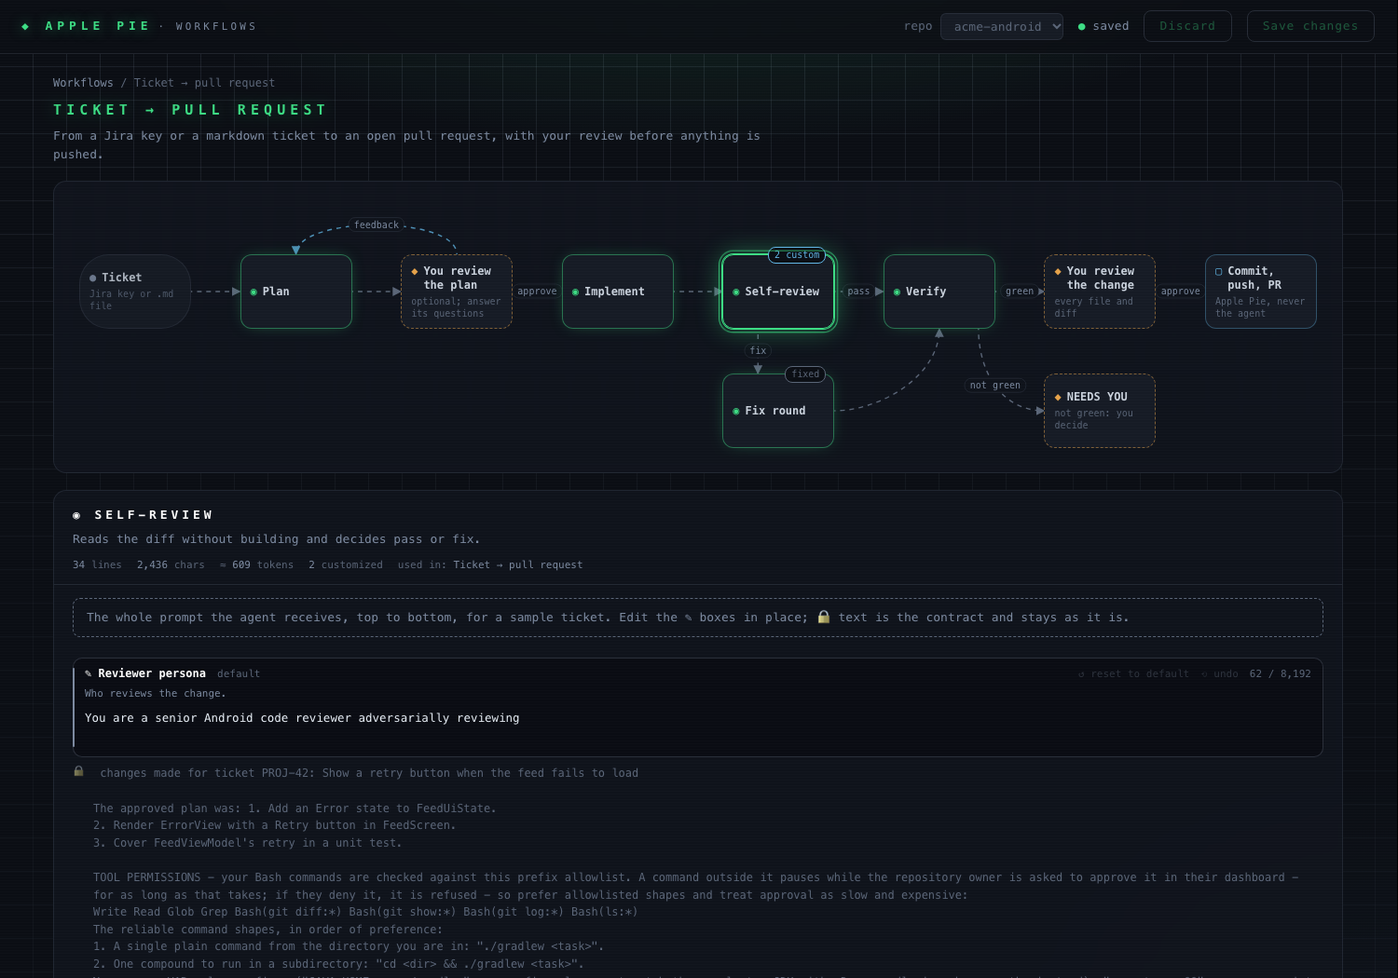
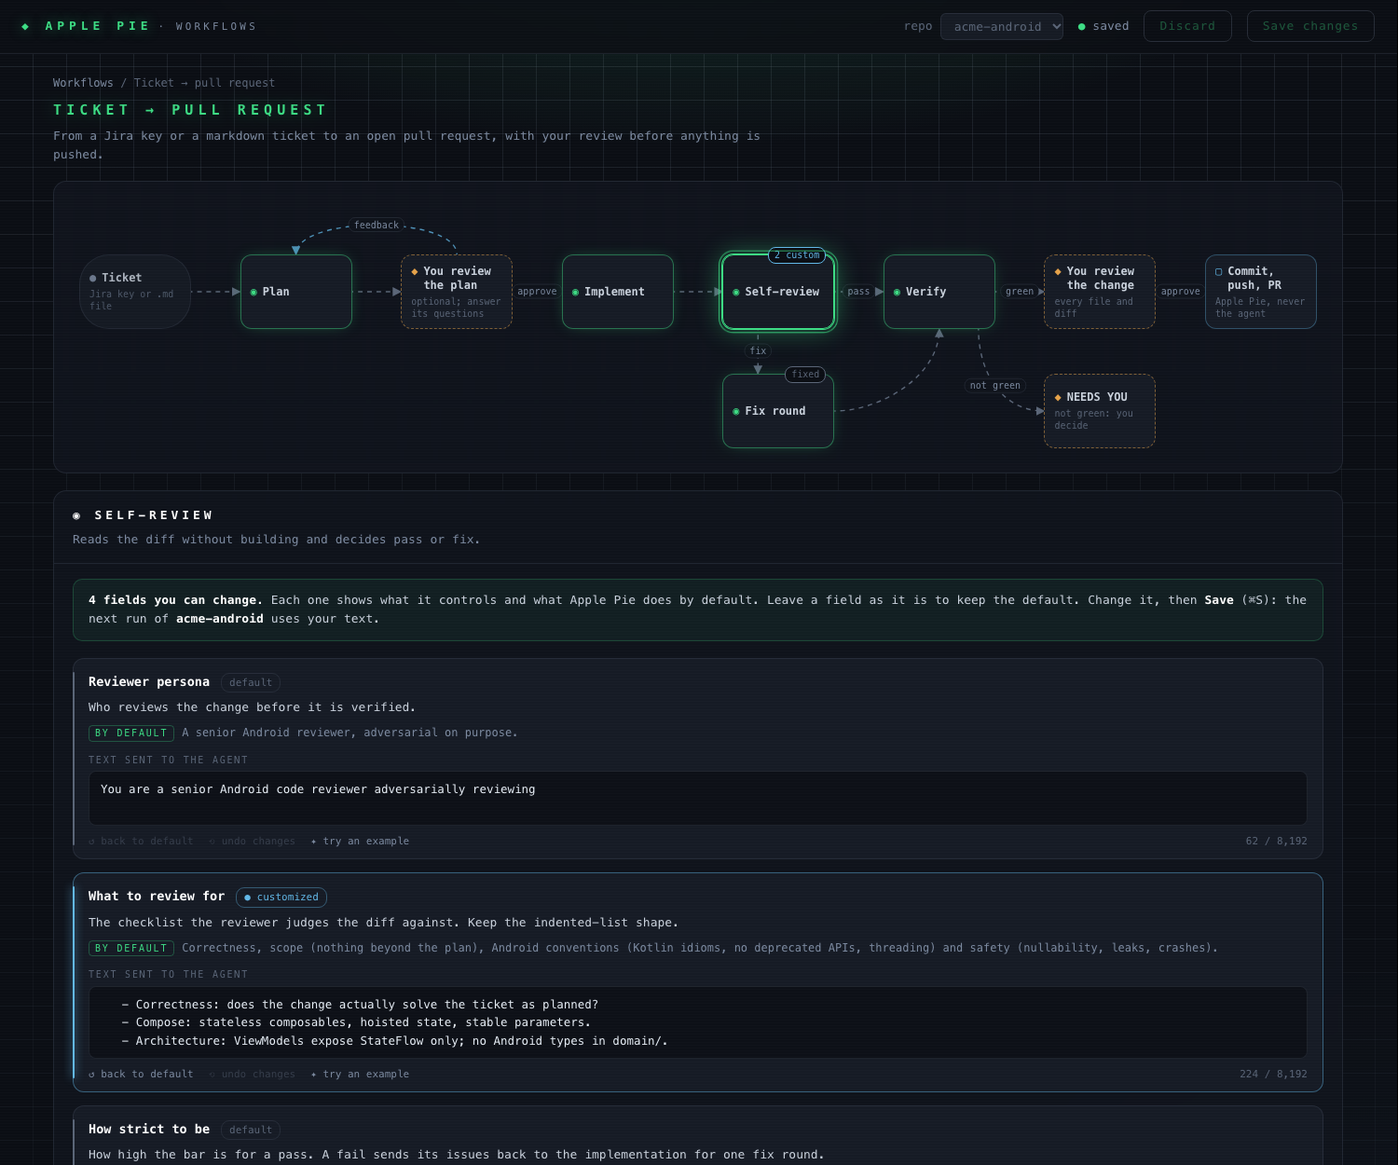
Workflow editor: a step shows only what you can change, explained
Each field now says what it controls, what Apple Pie does by default (in
plain words, not prompt text), and offers an example; the full prompt is
collapsed at the bottom. Guidance lives in agent/slots_guide.go, and a
test requires it for every field.

diff --git a/internal/workflows/web/app.js b/internal/workflows/web/app.js
@@ -10,7 +10,7 @@ try {
 if (location.hash) history.replaceState(null, "", location.pathname + location.search);
 
 const S = {repos: [], repo: "", file: "", slots: [], byId: {}, saved: {}, draft: {}, stages: [], workflows: [],
-  lint: {}, w: q0.get("w"), n: q0.get("n"), pending: false};
+  lint: {}, w: q0.get("w"), n: q0.get("n")};
 // ?stage=<id> (older links): open the first workflow that has that stage.
 const legacyStage = q0.get("stage");
 
@@ -178,7 +178,7 @@ function paintNode(el) {
   tag.textContent = d ? "● unsaved" : c ? `${c} custom` : "fixed";
 }
 
-// ---- a node: its prompt, or what happens there ----------------------------
+// ---- a node: what you can change there ------------------------------------
 
 function renderNode(n) {
   const el = $("#stage");
@@ -188,62 +188,63 @@ function renderNode(n) {
     el.innerHTML = `<div class="shead"><h2>${GLYPH[n.kind]} ${esc(n.title)}</h2></div><div class="info"><b>${what}</b><br>${esc(n.note || "")}</div>`;
     return;
   }
-  const st = stage(n.stage), sl = stageSlots(n.stage);
+  const st = stage(n.stage), sl = stageSlots(n.stage), shared = usedIn(st.id);
   el.innerHTML = `<div class="shead"><h2>◉ ${esc(st.title)}</h2><p class="lede">${esc(st.blurb)}</p>
-    <div class="smeta" id="smeta"></div></div>
-    ${st.fixed ? `<div class="notice">This prompt is fixed: it carries only your feedback and the contract around it, so there is nothing to customize. It is shown so you can see exactly what the agent receives.</div>` :
-      `<div class="notice">The whole prompt the agent receives, top to bottom, for a sample ticket. Edit the ✎ boxes in place; 🔒 text is the contract and stays as it is.${sl.length > 1 ? "" : ""}</div>`}
-    <div class="doc" id="doc"></div>`;
-  renderDoc(st);
-}
-
-function renderDoc(st) {
-  S.sig = sig(st);
-  $("#doc").innerHTML = st.blocks.map(b => {
-    if (!b.slot) return b.text.trim() ? `<div class="lk ${/\.agent\/|\.json/.test(b.text) ? "contract" : ""}"><pre>${esc(b.text.replace(/^\n+|\s+$/g, ""))}</pre></div>` : "";
-    const s = S.byId[b.slot];
-    return `<div class="ed" data-slot="${s.id}"><div class="ebar"><b>✎ ${esc(s.title)}</b><span class="badge"></span><span class="spacer"></span>
-      <button class="link reset">↺ reset to default</button><button class="link undo">⟲ undo</button><span class="count"></span><span class="help">${esc(s.help)}</span></div>
-      <textarea spellcheck="false" placeholder="${s.default ? "" : "Empty - add house rules, tools to prefer, things to avoid…"}">${esc(value(s.id))}</textarea><ul class="lint"></ul></div>`;
-  }).join("");
-  document.querySelectorAll(".ed").forEach(card => {
+    ${shared.length > 1 ? `<p class="shared">Shared by ${esc(shared.join(", "))}: a change here applies to all of them.</p>` : ""}</div>
+    ${st.fixed ? `<div class="howto">Nothing to customize in this step: it only passes on your own words, wrapped in rules Apple Pie needs. The full text is below if you want to see it.</div>` :
+      `<div class="howto"><b>${sl.length} field${sl.length > 1 ? "s" : ""} you can change.</b> Each one shows what it controls and what Apple Pie does by default.
+        Leave a field as it is to keep the default. Change it, then <b>Save</b> (⌘S): the next run of <b>${esc(S.repo.split("/").pop())}</b> uses your text.</div>
+      <div class="fields">${sl.map(field).join("")}</div>`}
+    <details class="full" ${st.fixed ? "open" : ""}><summary>Show the full prompt the agent receives <span id="flines"></span></summary>
+      <p class="fullnote">Your fields are highlighted; everything else is fixed - it is how Apple Pie tracks this step (the files the agent must write, permissions, budget and device rules).</p>
+      <pre class="prompt" id="full"></pre></details>`;
+  el.querySelectorAll(".field").forEach(card => {
     const id = card.dataset.slot, ta = $("textarea", card);
     const fit = () => { ta.style.height = "auto"; ta.style.height = ta.scrollHeight + 2 + "px"; };
     ta.oninput = () => { S.draft[id] = ta.value; fit(); paintSlot(card); renderChrome(); refresh(); };
-    ta.onblur = () => { if (S.pending) setTimeout(() => { if (!document.activeElement?.matches?.("textarea")) rerender(); }, 0); };
     $(".reset", card).onclick = () => { ta.value = S.byId[id].default; ta.oninput(); };
     $(".undo", card).onclick = () => { delete S.draft[id]; ta.value = value(id); ta.oninput(); };
+    $(".example", card).onclick = () => { ta.value = S.byId[id].example; ta.oninput(); ta.focus(); };
     requestAnimationFrame(fit);
     paintSlot(card);
   });
-  paintMeta(st);
+  paintFull(st);
 }
 
-const sig = st => st.blocks.map(b => b.slot ? "S" + b.slot : "L" + b.text).join("\u0000");
-
-function paintMeta(st) {
-  const text = st.blocks.map(b => b.text).join(""), c = stageSlots(st.id).filter(s => isCustom(s.id)).length;
-  const m = $("#smeta");
-  if (m) m.innerHTML = `<span><i>${text.split("\n").length}</i> lines</span><span><i>${text.length.toLocaleString()}</i> chars</span>
-    <span>≈ <i>${Math.round(text.length / 4).toLocaleString()}</i> tokens</span><span><i>${c}</i> customized</span><span>used in: <i>${esc(usedIn(st.id).join(", "))}</i></span>`;
+function field(s) {
+  const extra = !s.default;
+  return `<div class="field" data-slot="${s.id}">
+    <div class="fhead"><b>${esc(s.title)}</b><span class="chip"></span></div>
+    <p class="what">${esc(s.help)}</p>
+    <p class="dflt"><span>By default</span>${esc(s.behavior)}</p>
+    <label class="tlabel">${extra ? "Your instructions" : "Text sent to the agent"}</label>
+    <textarea spellcheck="false" placeholder="${extra ? esc("e.g. " + s.example) : ""}">${esc(value(s.id))}</textarea>
+    <ul class="lint"></ul>
+    <div class="ffoot"><button class="link reset">↺ back to default</button><button class="link undo">⟲ undo changes</button>
+      <button class="link example" title="${esc(s.example)}">✦ ${extra ? "use the example" : "try an example"}</button><span class="spacer"></span><span class="count"></span></div>
+  </div>`;
 }
 
 function paintSlot(card) {
   const id = card.dataset.slot, c = isCustom(id), d = isDirty(id), v = value(id);
   card.classList.toggle("custom", c); card.classList.toggle("dirty", d);
-  $(".badge", card).textContent = d ? "● unsaved" : c ? "● customized" : (S.byId[id].default ? "default" : "empty");
+  const chip = $(".chip", card);
+  chip.textContent = d ? "● unsaved" : c ? "● customized" : (S.byId[id].default ? "default" : "not used");
   $(".count", card).textContent = `${v.length.toLocaleString()} / 8,192`;
   $(".reset", card).disabled = norm(v) === norm(S.byId[id].default);
   $(".undo", card).disabled = !d;
   $(".lint", card).innerHTML = (S.lint[id] || []).map(w => `<li>${esc(w)}</li>`).join("");
 }
 
-// rerender redraws the open prompt when its shape changed (team instructions
-// gained or lost their heading) - never while you are typing in it.
-function rerender() {
-  S.pending = false;
-  const w = S.w && flow(S.w), n = w && w.nodes.find(x => x.id === S.n);
-  if (n && n.stage) renderDoc(stage(n.stage));
+// paintFull renders the assembled prompt, your fields highlighted.
+function paintFull(st) {
+  const pre = $("#full");
+  if (!pre) return;
+  const text = st.blocks.map(b => b.text).join("");
+  $("#flines").textContent = `(${text.split("\n").length} lines)`;
+  pre.innerHTML = st.blocks.map(b => b.slot
+    ? `<span class="s ${isCustom(b.slot) ? "custom" : ""}" title="${esc(S.byId[b.slot].title)}">${esc(b.text)}</span>`
+    : esc(b.text)).join("").replace(/^\n+/, "");
 }
 
 function currentSlots() {
@@ -261,12 +262,8 @@ function refresh() {
       S.stages = r.stages; S.lint = r.lint || {};
       const w = S.w && flow(S.w), n = w && w.nodes.find(x => x.id === S.n);
       if (!n || !n.stage) return;
-      const st = stage(n.stage);
-      document.querySelectorAll(".ed").forEach(paintSlot);
-      paintMeta(st);
-      if (sig(st) !== S.sig) {
-        if (document.activeElement && document.activeElement.matches("textarea")) S.pending = true; else rerender();
-      }
+      document.querySelectorAll(".field").forEach(paintSlot);
+      paintFull(stage(n.stage));
     } catch (err) { toast(err.message, true); }
   }, 220);
 }

diff --git a/internal/workflows/web/app.css b/internal/workflows/web/app.css
@@ -86,32 +86,43 @@ h2{margin:0;font-size:13px;letter-spacing:.3em;color:var(--strong);text-transfor
 .node .tag.d{border-color:var(--amber);color:var(--amber)}
 .node .tag.f{border-color:var(--faint);color:var(--faint)}
 
-/* stage document */
+/* a step: the fields you can change */
 .stage{margin-top:18px;background:var(--panel);border:1px solid var(--line);border-radius:14px;backdrop-filter:blur(10px)}
-.shead{padding:16px 20px 12px;border-bottom:1px solid var(--line)}
-.smeta{display:flex;flex-wrap:wrap;gap:6px 16px;color:var(--faint);font-size:11px;margin-top:8px}
-.smeta i{font-style:normal;color:var(--dim)}
-.notice{margin:14px 20px 0;padding:10px 14px;border:1px dashed var(--faint);border-radius:8px;color:var(--dim)}
-.doc{padding:16px 20px 24px}
-.lk{position:relative;margin:0;padding-left:22px}
-.lk::before{content:"🔒";position:absolute;left:0;top:0;font-size:10px;opacity:.55}
-.lk pre{margin:0;white-space:pre-wrap;word-break:break-word;font:inherit;font-size:12px;color:var(--faint)}
-.lk.contract pre{color:#6F7F96}
-.ed{margin:6px 0 8px;border:1px solid rgba(124,138,160,.28);border-radius:10px;background:rgba(7,9,13,.6);transition:.2s;position:relative}
-.ed::before{content:"";position:absolute;left:-1px;top:10px;bottom:10px;width:2px;border-radius:2px;background:var(--dim)}
-.ed.custom{border-color:rgba(98,184,232,.45)} .ed.custom::before{background:var(--cyan);box-shadow:0 0 10px var(--cyan)}
-.ed.dirty::before{background:var(--amber);box-shadow:0 0 10px var(--amber)}
-.ed:focus-within{border-color:rgba(61,220,132,.6);box-shadow:0 0 26px -6px rgba(61,220,132,.45)}
-.ebar{display:flex;align-items:baseline;flex-wrap:wrap;gap:4px 12px;padding:7px 12px 0;font-size:11px;color:var(--faint)}
-.ebar b{color:var(--strong);font-size:12px}
-.ebar .badge{color:var(--faint)} .ed.custom .badge{color:var(--cyan)} .ed.dirty .badge{color:var(--amber)}
-.ebar .help{flex-basis:100%;color:var(--dim)}
+.shead{padding:16px 20px 14px;border-bottom:1px solid var(--line)}
+.shared{margin:8px 0 0;color:var(--cyan);font-size:12px}
+.howto{margin:16px 20px 4px;padding:12px 16px;border-radius:10px;background:rgba(61,220,132,.06);border:1px solid rgba(61,220,132,.22);color:var(--ink);line-height:1.6}
+.howto b{color:var(--strong);font-weight:700}
+.fields{display:grid;gap:14px;padding:14px 20px 6px}
+.field{position:relative;border:1px solid var(--line);border-radius:12px;background:var(--panel2);padding:14px 16px 10px;transition:.2s}
+.field::before{content:"";position:absolute;left:-1px;top:14px;bottom:14px;width:2px;border-radius:2px;background:var(--faint);transition:.2s}
+.field.custom{border-color:rgba(98,184,232,.45)} .field.custom::before{background:var(--cyan);box-shadow:0 0 10px var(--cyan)}
+.field.dirty::before{background:var(--amber);box-shadow:0 0 10px var(--amber)}
+.field:focus-within{border-color:rgba(61,220,132,.6);box-shadow:0 0 26px -6px rgba(61,220,132,.45)}
+.fhead{display:flex;align-items:baseline;gap:12px}
+.fhead b{color:var(--strong);font-size:13.5px}
+.chip{font-size:11px;padding:1px 8px;border-radius:9px;border:1px solid var(--line);color:var(--faint)}
+.field.custom .chip{color:var(--cyan);border-color:rgba(98,184,232,.4)} .field.dirty .chip{color:var(--amber);border-color:rgba(229,162,74,.4)}
+.what{margin:6px 0 0;color:var(--ink)}
+.dflt{margin:8px 0 0;color:var(--dim);font-size:12px}
+.dflt span{display:inline-block;margin-right:8px;font-size:10px;letter-spacing:.18em;text-transform:uppercase;color:var(--accent);border:1px solid rgba(61,220,132,.3);border-radius:4px;padding:0 6px}
+.tlabel{display:block;margin:12px 0 4px;font-size:10px;letter-spacing:.18em;text-transform:uppercase;color:var(--faint)}
+textarea{display:block;width:100%;min-height:44px;resize:none;border:1px solid var(--line);border-radius:8px;background:rgba(7,9,13,.6);color:#E6EDF5;padding:9px 12px;line-height:1.55;overflow:hidden;font-size:12.5px}
+textarea::placeholder{color:var(--faint)}
+.ffoot{display:flex;align-items:center;flex-wrap:wrap;gap:6px 16px;margin-top:8px;font-size:11px;color:var(--faint)}
 .link{background:none;border:0;color:var(--dim);cursor:pointer;padding:0;font-size:11px}
 .link:hover:not(:disabled){color:var(--accent)} .link:disabled{opacity:.3;cursor:default}
-textarea{display:block;width:100%;min-height:36px;resize:none;border:0;background:transparent;color:#E6EDF5;padding:8px 12px 10px;line-height:1.55;overflow:hidden;font-size:12.5px;border-radius:0 0 10px 10px}
-textarea::placeholder{color:var(--faint)}
-.lint{margin:0;padding:0 12px 8px;list-style:none;color:var(--amber);font-size:11.5px}
+.lint{margin:6px 0 0;padding:0;list-style:none;color:var(--amber);font-size:11.5px}
 .lint li::before{content:"▲ "} .lint:empty{display:none}
+details.full{margin:10px 20px 20px;border:1px dashed rgba(90,101,119,.5);border-radius:10px}
+details.full summary{cursor:pointer;padding:10px 14px;color:var(--dim);list-style:none}
+details.full summary::-webkit-details-marker{display:none}
+details.full summary::before{content:"▸ ";color:var(--faint)} details.full[open] summary::before{content:"▾ "}
+details.full summary:hover{color:var(--accent)}
+details.full summary span{color:var(--faint)}
+.fullnote{margin:0 14px 10px;color:var(--faint);font-size:12px}
+pre.prompt{margin:0;padding:0 14px 14px;white-space:pre-wrap;word-break:break-word;font:inherit;font-size:12px;color:var(--faint)}
+pre.prompt .s{color:var(--ink);background:rgba(124,138,160,.1);border-radius:3px;box-shadow:inset 2px 0 0 var(--dim)}
+pre.prompt .s.custom{color:#E6F4FF;background:rgba(98,184,232,.14);box-shadow:inset 2px 0 0 var(--cyan)}
 .info{padding:18px 20px;color:var(--dim)}
 .info b{color:var(--ink);font-weight:400}
 

diff --git a/internal/agent/slots_guide.go b/internal/agent/slots_guide.go
@@ -1,0 +1,80 @@
+package agent
+
+// What the workflow editor tells a person about each slot: what it controls,
+// what Apple Pie does when it is left alone (in plain words, not the prompt
+// text), and an example of a real customization.
+type slotGuide struct{ help, behavior, example string }
+
+var slotGuides = map[string]slotGuide{
+	SlotPlanApproach: {"How the agent explores the code and builds its plan. Planning stays read-only whatever you write.",
+		"The agent decides on its own how to explore the code and how to structure the plan.",
+		"Start from the module's README and its tests. Find a similar existing feature and follow its structure. Plan in steps: files to change, new classes, tests to add."},
+	SlotPlanQuestions: {"When the plan stops to ask you instead of making an assumption.",
+		"It asks only when something truly blocks a safe implementation; otherwise it assumes and carries on.",
+		"Always ask before changing a public API, a database schema or analytics events. For UI copy, assume and say so in the plan."},
+	SlotImplPersona: {"Who the agent is while writing the code - its role and expertise.",
+		"An autonomous Android engineer implementing the approved plan.",
+		"You are a senior Android engineer on the Payments team, fluent in Kotlin, Jetpack Compose and Hilt"},
+	SlotImplRules: {"The rules every change must follow: conventions, architecture, libraries to use or avoid.",
+		"Follow the approved plan and keep the change focused and minimal.",
+		"Follow the approved plan. Use Hilt for DI and StateFlow in ViewModels. Never add a dependency without saying why. Every new ViewModel gets a unit test."},
+	SlotImplPRBody: {"How the agent writes the pull request description.",
+		"It fills in your repo's PR template, section by section. With no template, Apple Pie uses its own (~/.pie/templates/pr_body.tmpl).",
+		`fill in .github/pull_request_template.md. Under "Testing", list the exact Gradle tasks you ran. Put "prBody" in the report.`},
+	SlotReviewPersona: {"Who reviews the change before it is verified.",
+		"A senior Android reviewer, adversarial on purpose.",
+		"You are a staff Android engineer on our architecture guild, adversarially reviewing"},
+	SlotReviewCriteria: {"The checklist the reviewer judges the diff against. Keep the indented-list shape.",
+		"Correctness, scope (nothing beyond the plan), Android conventions (Kotlin idioms, no deprecated APIs, threading) and safety (nullability, leaks, crashes).",
+		"   - Correctness: does the change solve the ticket?\n   - Compose: stateless composables, hoisted state, stable parameters\n   - Architecture: no Android types in domain/"},
+	SlotReviewStrictness: {"How high the bar is for a pass. A fail sends its issues back to the implementation for one fix round.",
+		"It passes only changes that are genuinely good.",
+		"Fail only for bugs, crashes or plan violations - style nits are notes, not a reason to fail."},
+	SlotVerifyApproach: {"Where the agent looks to find how your project builds and runs its tests.",
+		"It searches the Gradle files, Makefile, scripts/, README, CI config and any company build skill, and works it out.",
+		"Run ./scripts/ci-test.sh - it is exactly what CI runs. Skip the :benchmark module."},
+	SlotCommentsPersona: {"Who answers the reviewers' comments.",
+		"An autonomous Android engineer responding to code review.",
+		"You are the Android engineer who owns this feature, responding to code review"},
+	SlotCommentsScope: {"How far a fix may go beyond what the reviewer asked.",
+		"The smallest change that satisfies each comment - no refactors, no fixing things nobody mentioned.",
+		"Fix exactly what was asked. If a comment points at a pattern, fix every occurrence in the files this PR already touches."},
+	SlotCommentsSkip: {"When the agent pushes back instead of changing the code. A skipped comment still gets a reply.",
+		"It skips comments that are wrong, unsafe or would break the build, and explains why.",
+		"Skip style comments that contradict our .editorconfig and quote the rule. Never skip a comment from a code owner."},
+	SlotCommentsVoice: {"How the draft replies to reviewers read. You see and can edit every reply before it is posted.",
+		"Short and direct, in a human voice: what changed and where. Never mentions commits or being an AI.",
+		"Reply in one or two sentences. Name the file you changed. No thanks-for-the-review filler."},
+	SlotReworkPolicy: {"How far a revision may go beyond your notes.",
+		"The smallest change that satisfies each of your notes.",
+		"Do what each note asks, and also fix anything the note reveals in the same function"},
+	SlotRunInvestigate: {"What the agent checks first when building, installing or launching the app fails. {serial} becomes the device's serial.",
+		"It reads settings.gradle and the module's build file, lists the Gradle tasks, checks java -version and the installed packages, and builds only to prove a fix.",
+		"This app needs JDK 17 from /opt/jdk17 and the -Pstaging flag. Check adb -s {serial} devices first."},
+}
+
+// extraExamples are per-stage examples for the team-instructions slot.
+var extraExamples = map[string]string{
+	"plan":        "Read docs/ARCHITECTURE.md first. Never plan changes in the legacy/ module.",
+	"implement":   "Strings go in strings.xml, never hardcoded. Use our DesignSystem components, not raw Material ones.",
+	"self-review": "Every new ViewModel needs a unit test under test/. Flag a missing one as fix.",
+	"verify":      "Run ./gradlew lint too, and treat new lint errors as failures.",
+	"comments":    "Bot comments (Sonar, CodeRabbit) about formatting: fix them silently, no long reply.",
+	"rework":      "When I mention a file with @, change only that file unless I say otherwise.",
+	"run":         "The staging flavor needs VPN; if a network call fails at launch, say so instead of retrying.",
+}
+
+func init() {
+	for i := range Slots {
+		s := &Slots[i]
+		if g, ok := slotGuides[s.ID]; ok {
+			s.Help, s.Behavior, s.Example = g.help, g.behavior, g.example
+			continue
+		}
+		if ex, ok := extraExamples[s.Stage]; ok && s.Default == "" {
+			s.Help = "Anything else this step should know. It is added under a TEAM INSTRUCTIONS heading, before the step's required output."
+			s.Behavior = "Empty - nothing is added."
+			s.Example = ex
+		}
+	}
+}

diff --git a/internal/agent/slots.go b/internal/agent/slots.go
@@ -21,6 +21,10 @@ type Slot struct {
 	Title   string `json:"title"`
 	Help    string `json:"help"`
 	Default string `json:"default"`
+	// For the editor (see slots_guide.go): what Apple Pie does when the slot
+	// is left alone, in plain words, and an example customization.
+	Behavior string `json:"behavior,omitempty"`
+	Example  string `json:"example,omitempty"`
 }
 
 // Stage is one step of the workflow, as the editor shows it.
@@ -82,7 +86,7 @@ const (
 // Defaults are today's prompt text word for word: an untouched workflow
 // produces exactly the prompts Apple Pie always sent.
 var Slots = func() []Slot {
-	base := []Slot{
+	base := []struct{ ID, Stage, Title, Help, Default string }{
 		{SlotPlanApproach, "plan", "How to plan", "How the agent should go about understanding the code and planning. It stays read-only whatever this says.",
 			"Understand the code and produce your implementation plan however you see fit,\nusing whatever tools and approach work best for you."},
 		{SlotPlanQuestions, "plan", "When to ask questions", "When the plan should stop and ask you instead of assuming. An empty questions list always means proceed.",
@@ -128,14 +132,14 @@ about your process.`},
 	for _, st := range Stages {
 		for _, s := range base {
 			if s.Stage == st.ID {
-				out = append(out, s)
+				out = append(out, Slot{ID: s.ID, Stage: s.Stage, Title: s.Title, Help: s.Help, Default: s.Default})
 			}
 		}
 		if st.Fixed {
 			continue
 		}
-		out = append(out, Slot{st.ID + extraSuffix, st.ID, teamInstructionsTitle,
-			"Anything else this stage should know: house rules, tools, what to avoid. Added under TEAM INSTRUCTIONS.", ""})
+		out = append(out, Slot{ID: st.ID + extraSuffix, Stage: st.ID, Title: teamInstructionsTitle,
+			Help: "Anything else this stage should know: house rules, tools, what to avoid. Added under TEAM INSTRUCTIONS."})
 	}
 	return out
 }()

diff --git a/internal/agent/slots_test.go b/internal/agent/slots_test.go
@@ -108,3 +108,13 @@ func TestSlotDefaultsAreNormalized(t *testing.T) {
 		}
 	}
 }
+
+// Every field the editor shows explains itself: what it does, the default
+// behavior in plain words, and an example.
+func TestEverySlotIsExplained(t *testing.T) {
+	for _, s := range Slots {
+		if s.Help == "" || s.Behavior == "" || s.Example == "" {
+			t.Errorf("%s: help/behavior/example missing - the editor would show a bare text box", s.ID)
+		}
+	}
+}

diff --git a/docs/customizing-workflows.md b/docs/customizing-workflows.md
@@ -30,12 +30,17 @@ Verify appears in three workflows. It is one prompt, so an edit there applies to
 
 ![A workflow and one of its prompts](assets/workflow-editor.png)
 
-**The prompt.** Click an agent step to see its whole prompt, top to bottom, exactly as the agent receives it (for a sample ticket):
+**The step.** Click an agent step to see only the fields you can change there. Each field shows:
 
-- **🔒 Locked text** reads in place.
-- **✎ Editable sections** sit where they appear in the prompt, with their current text in the box. Edit them, use **reset to default**, or **undo** unsaved edits.
-- **Extra team instructions** is an empty box on every editable step. Anything you write there goes under a `TEAM INSTRUCTIONS for this stage:` heading, placed before the step's output contract.
-- **Fixed steps** (Fix round, Revise fixes, Discuss) carry only your feedback and the contract around it. You can read them, but there is nothing to edit.
+- **What it controls.**
+- **By default:** what Apple Pie does if you leave it alone, in plain words.
+- **The text sent to the agent.** Edit it in place, go **back to default**, **undo changes**, or **try an example**.
+
+Every editable step also has an **Extra team instructions** field, empty by default. Anything you write there is added under a `TEAM INSTRUCTIONS for this stage:` heading, before the step's required output.
+
+The fixed steps (Fix round, Revise fixes, Discuss) only pass on your own words, so there's nothing to change in them.
+
+**Show the full prompt**, collapsed at the bottom of each step, shows the exact text the agent receives for a sample ticket, with your fields highlighted.
 
 Save with **Save changes** or <kbd>⌘S</kbd>. The next run of that repo uses the saved workflow; a run already in progress keeps the prompts it started with.
 
